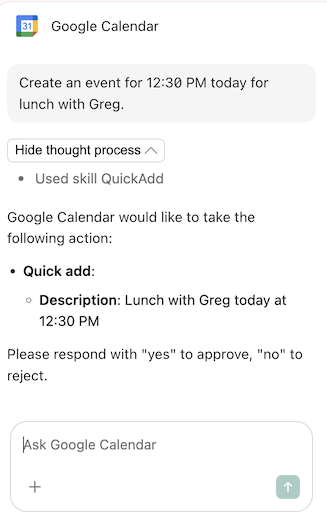
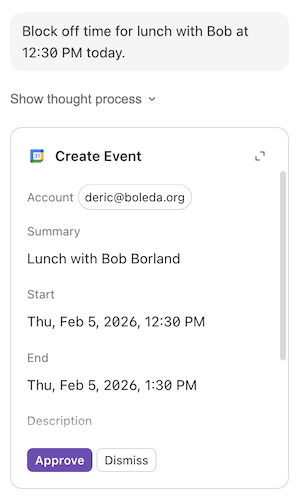
Document the new action cards

diff --git a/docs/agents/features/tools.md b/docs/agents/features/tools.md
@@ -66,9 +66,13 @@ pack.addSkill({
 
 ### Actions
 
-Formulas that have side effects (e.g., create or update records in an API) should be annotated as actions (`isAction: true`). Unlike regular formulas, action formulas require confirmation before they are run. Learn more in the [Actions guide][actions].
+Formulas that have side effects (e.g., create or update records in an API) should be annotated as actions (`isAction: true`). Unlike regular formulas, action formulas require confirmation before they are run.
 
 <img src="site:images/agent_action_confirmation.png" srcset="site:images/agent_action_confirmation_2x.png 2x" alt="A screenshot of the action confirmation UX." class="screenshot">
+
+The confirmation card includes all of the parameter values that the LLM has set, and allows the user to edit the values before approving. Dismissing the action will prevent the action formula from running and send a notification back to the LLM.
+
+Learn more about actions in the [Actions guide][actions].
 
 
 ## Knowledge
